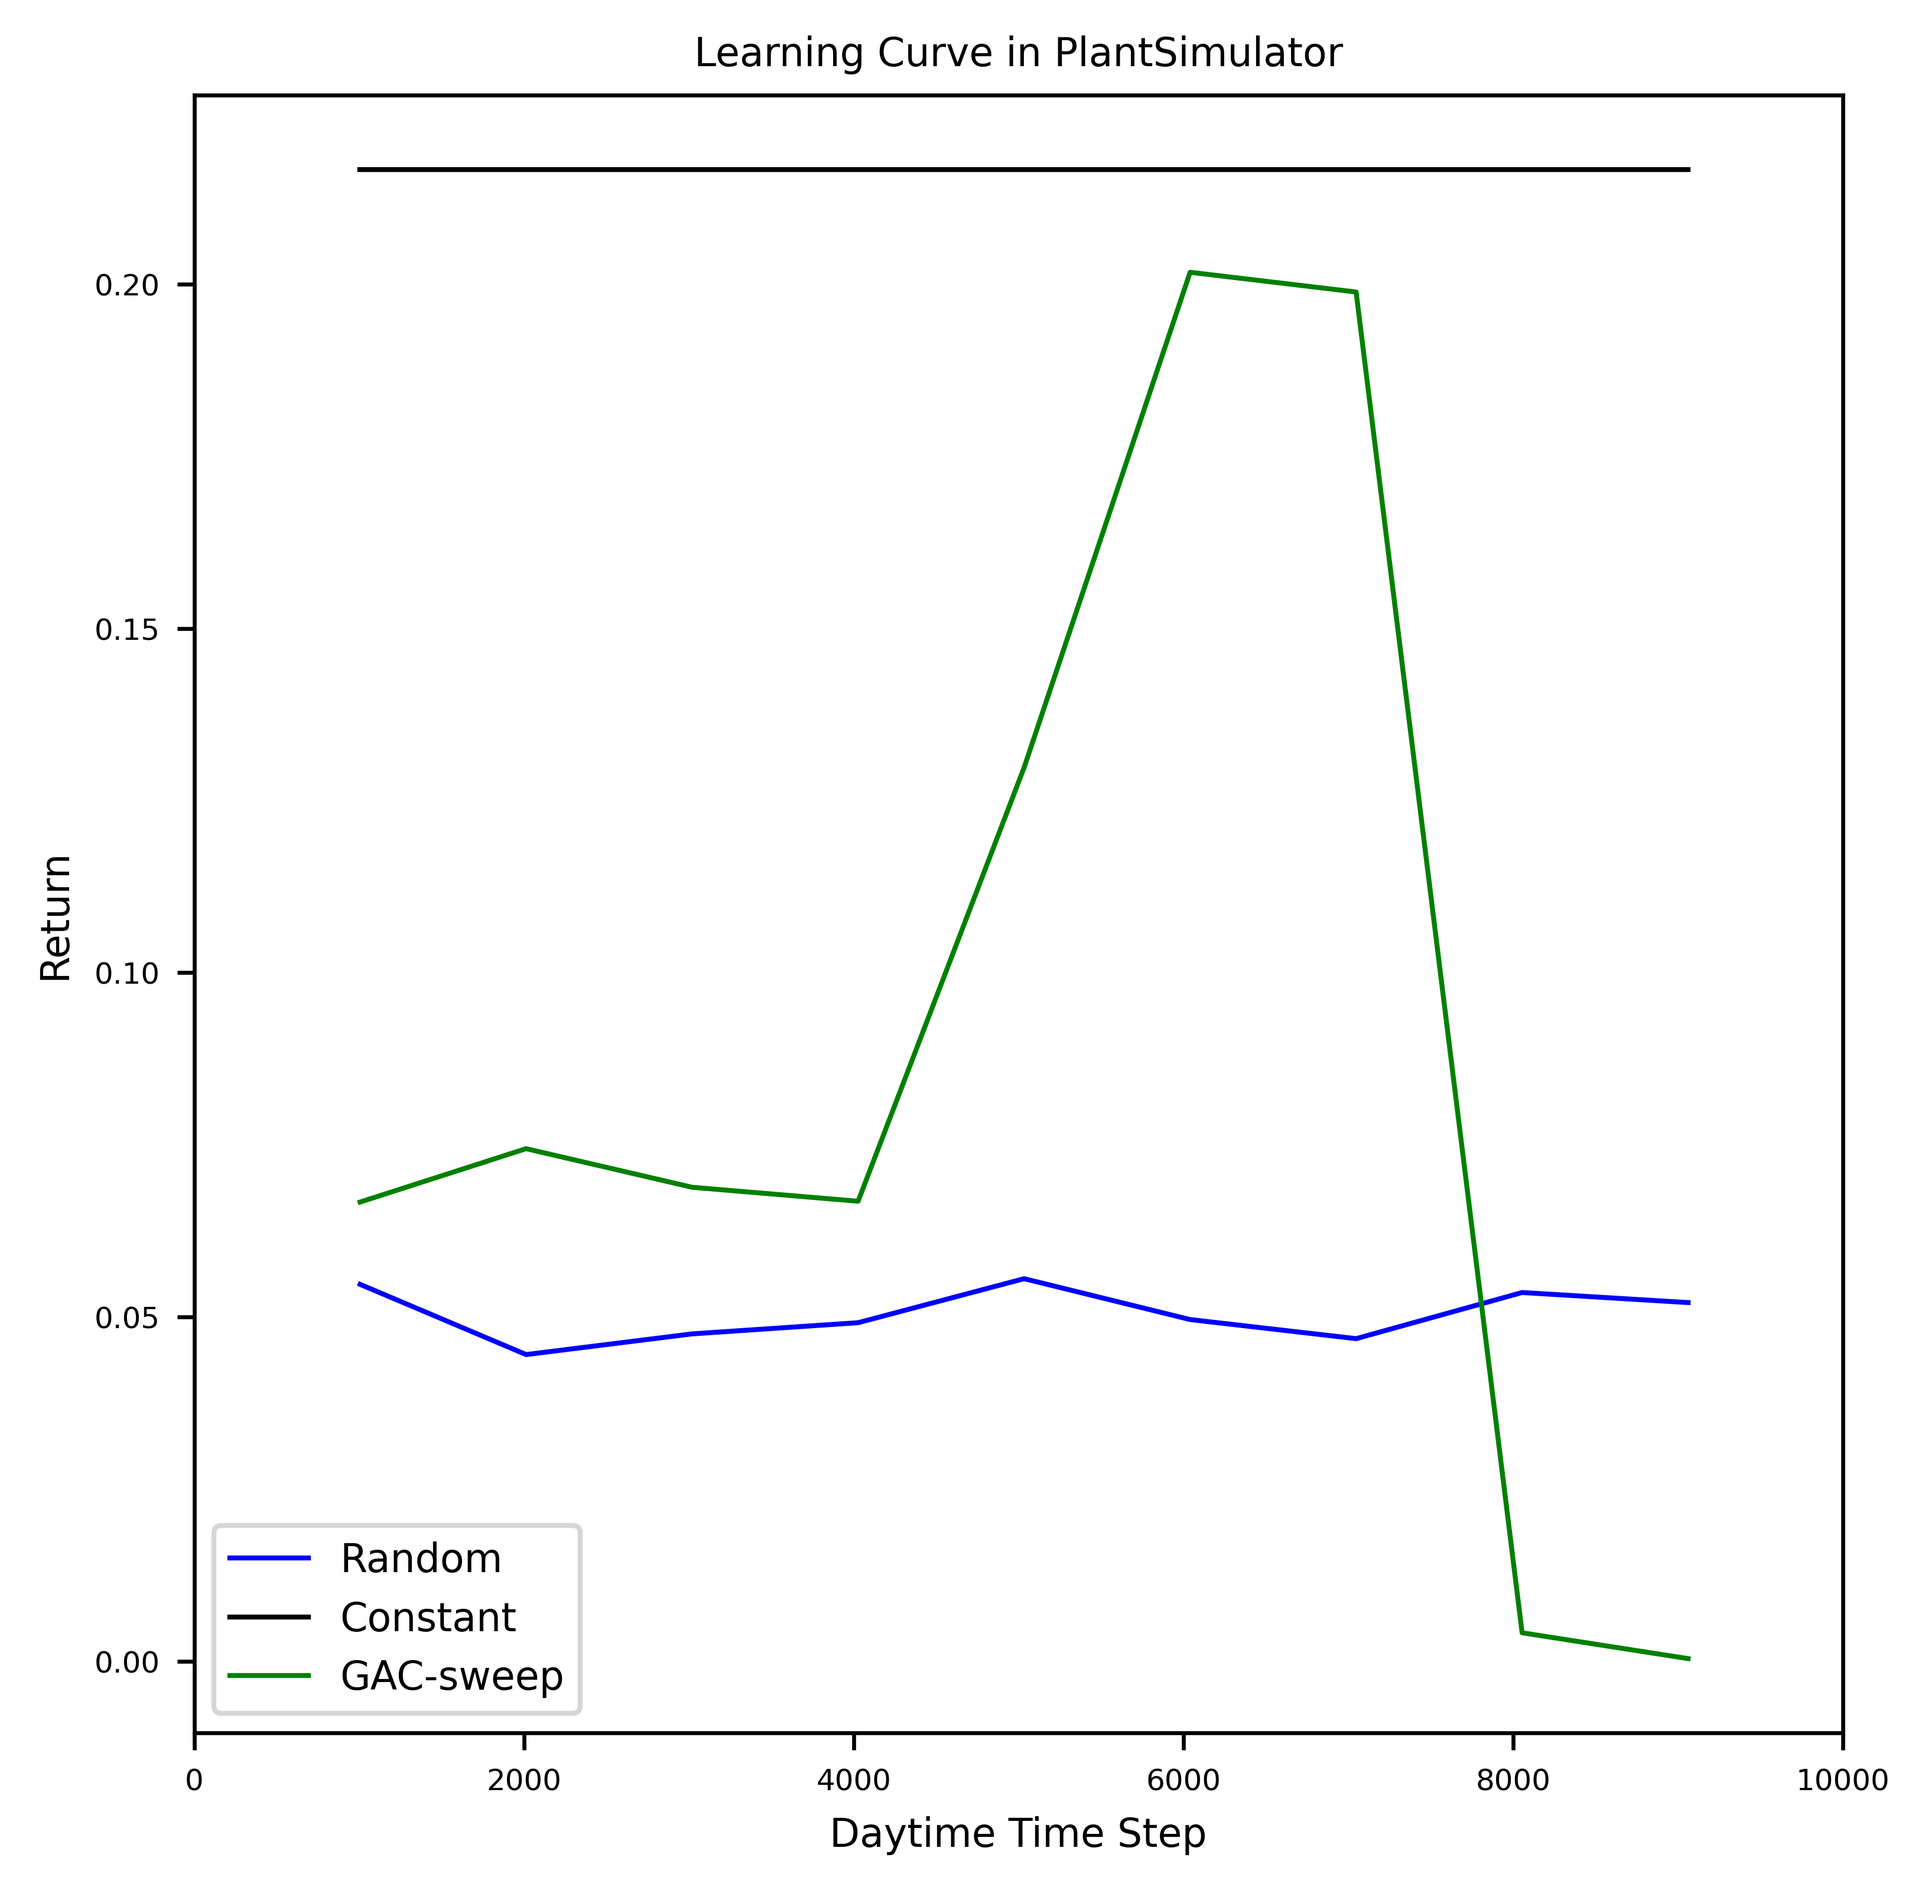
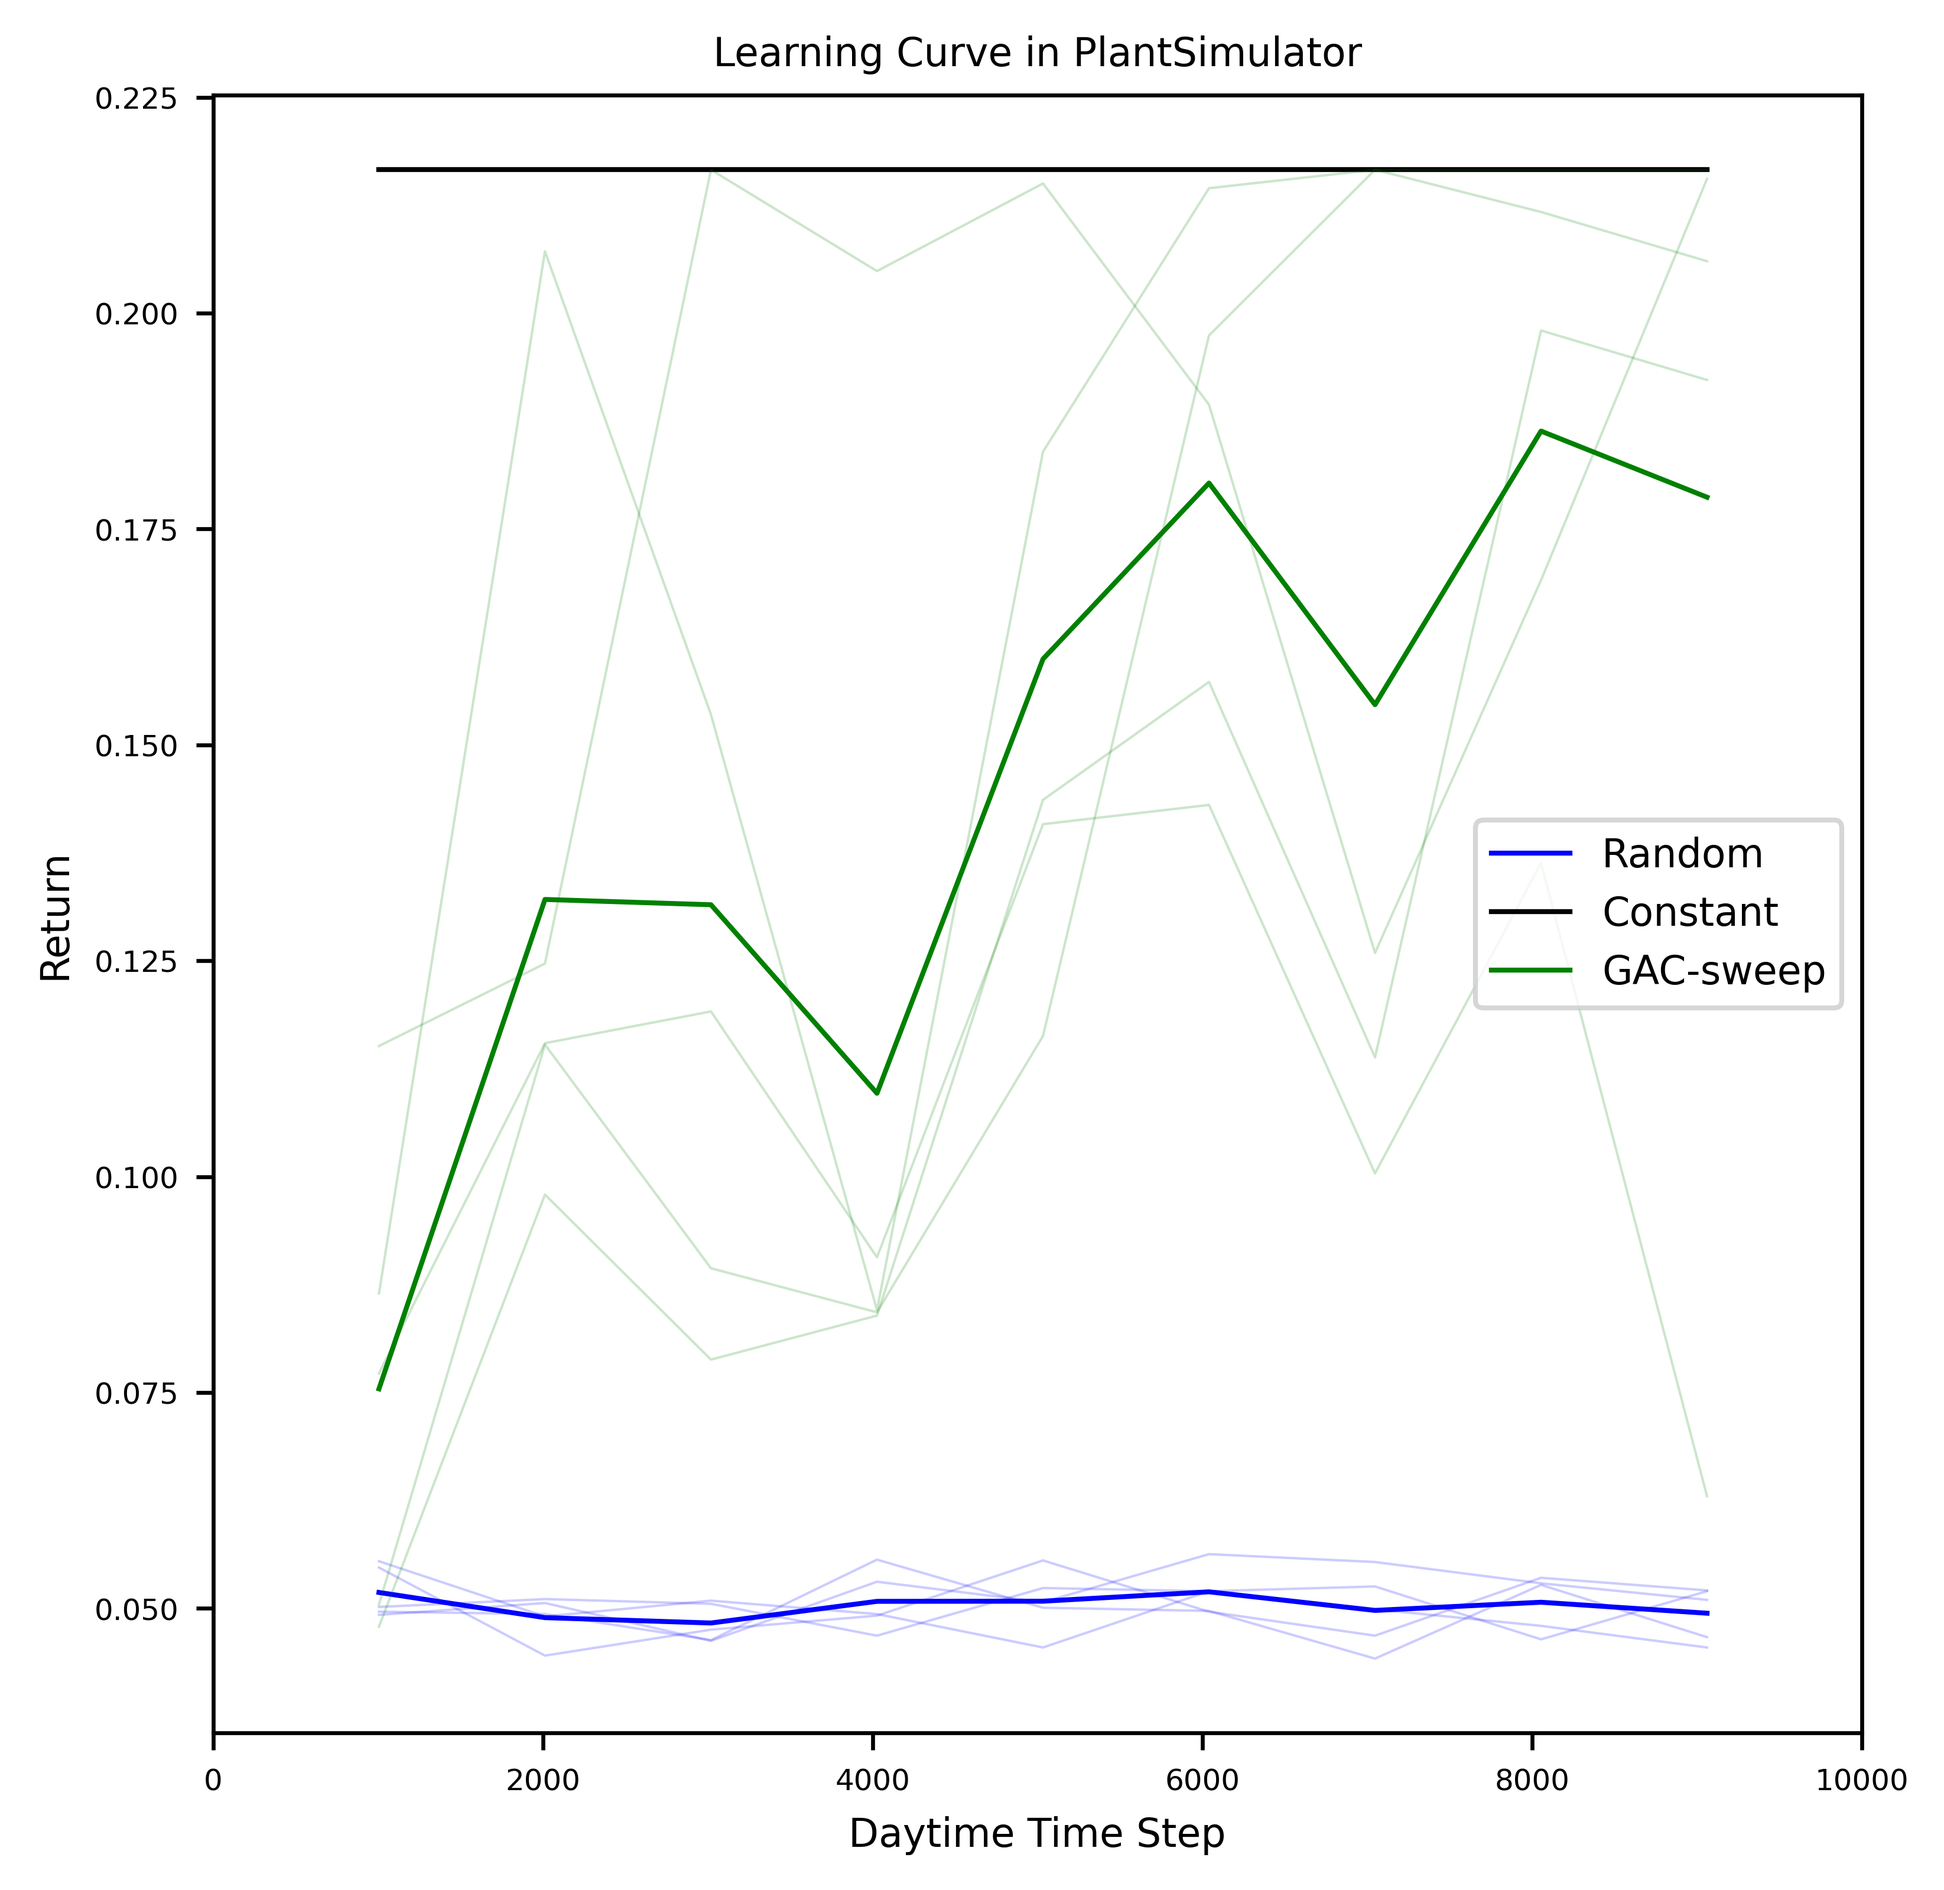
Use median action

diff --git a/src/algorithms/nn/GreedyAC/GreedyAC.py b/src/algorithms/nn/GreedyAC/GreedyAC.py
@@ -18,26 +18,26 @@ class GreedyAC(BaseAgent):
         self.state = None
         self.action = None
         self.greedy_ac = GreedyACDiscrete(
-            num_inputs = observations[0], 
-            num_actions = actions, 
-            gamma = self.gamma, 
-            tau = params['tau'], 
+            num_inputs = observations[0],
+            num_actions = actions,
+            gamma = self.gamma,
+            tau = params['tau'],
             policy = params['policy_type'],
-            target_update_interval = params['target_update_interval'], 
-            critic_lr = params['critic_lr'], 
+            target_update_interval = params['target_update_interval'],
+            critic_lr = params['critic_lr'],
             actor_lr_scale = params['actor_lr_scale'],
-            actor_hidden_dim = params['hidden_dim'], 
-            critic_hidden_dim = params['hidden_dim'], 
+            actor_hidden_dim = params['hidden_dim'],
+            critic_hidden_dim = params['hidden_dim'],
             actor_n_hidden= params['n_hidden'],
             critic_n_hidden= params['n_hidden'],
-            replay_capacity = params['replay_capacity'], 
+            replay_capacity = params['replay_capacity'],
             seed = seed,
-            batch_size = params['batch_size'], 
-            beta1 = params['beta1'], 
-            beta2 = params['beta2'], 
+            batch_size = params['batch_size'],
+            beta1 = params['beta1'],
+            beta2 = params['beta2'],
             cuda=False,
-            clip_stddev=1000, 
-            init=None, 
+            clip_stddev=1000,
+            init=None,
             entropy_from_single_sample=True,
             activation="relu")
         self.batch_observations = params.get("batch_observations", False)
@@ -62,8 +62,8 @@ class GreedyAC(BaseAgent):
         )
         self.state = observation
         if self.batch_observations:
-            state = np.mean(self.state, axis=0)
-            self.action = self.greedy_ac.sample_action(state)
+            actions = self.greedy_ac.sample_actions(self.state)
+            self.action = np.round(np.median(actions.squeeze())).astype(np.int32)
         else:
             self.action = self.greedy_ac.sample_action(self.state)
 

diff --git a/src/main.py b/src/main.py
@@ -3,12 +3,12 @@ import os
 import sys
 sys.path.append(os.getcwd())
 from tqdm import tqdm
-
 import time
 import socket
 import logging
 import argparse
 import numpy as np
+from collections import deque
 from RlGlue import RlGlue
 from experiment import ExperimentModel
 from utils.checkpoint import Checkpoint
@@ -97,10 +97,16 @@ for idx in indices:
     if glue.total_steps == 0:
         glue.start()
 
+    actions = deque(maxlen=100)
+
     for step in tqdm(range(glue.total_steps, exp.total_steps)):
         collector.next_frame()
         chk.maybe_save()
         interaction = glue.step()
+
+        action = interaction.a
+        if action is not None:
+            actions.append(action)
 
         if interaction.t or (exp.episode_cutoff > -1 and glue.num_steps >= exp.episode_cutoff):
             # allow agent to cleanup traces or other stateful episodic info
@@ -120,7 +126,8 @@ for idx in indices:
             fps = step / (time.time() - start_time)
 
             episode = chk['episode']
-            logger.debug(f'{episode} {step} {total_reward} {avg_time:.4}ms {int(fps)}')
+            mean_action = np.mean(actions) if len(actions) > 0 else 0
+            logger.debug(f'{episode} {step} {total_reward:.2f} {mean_action:.2f} {avg_time:.4}ms {int(fps)}')
 
             glue.start()
 
